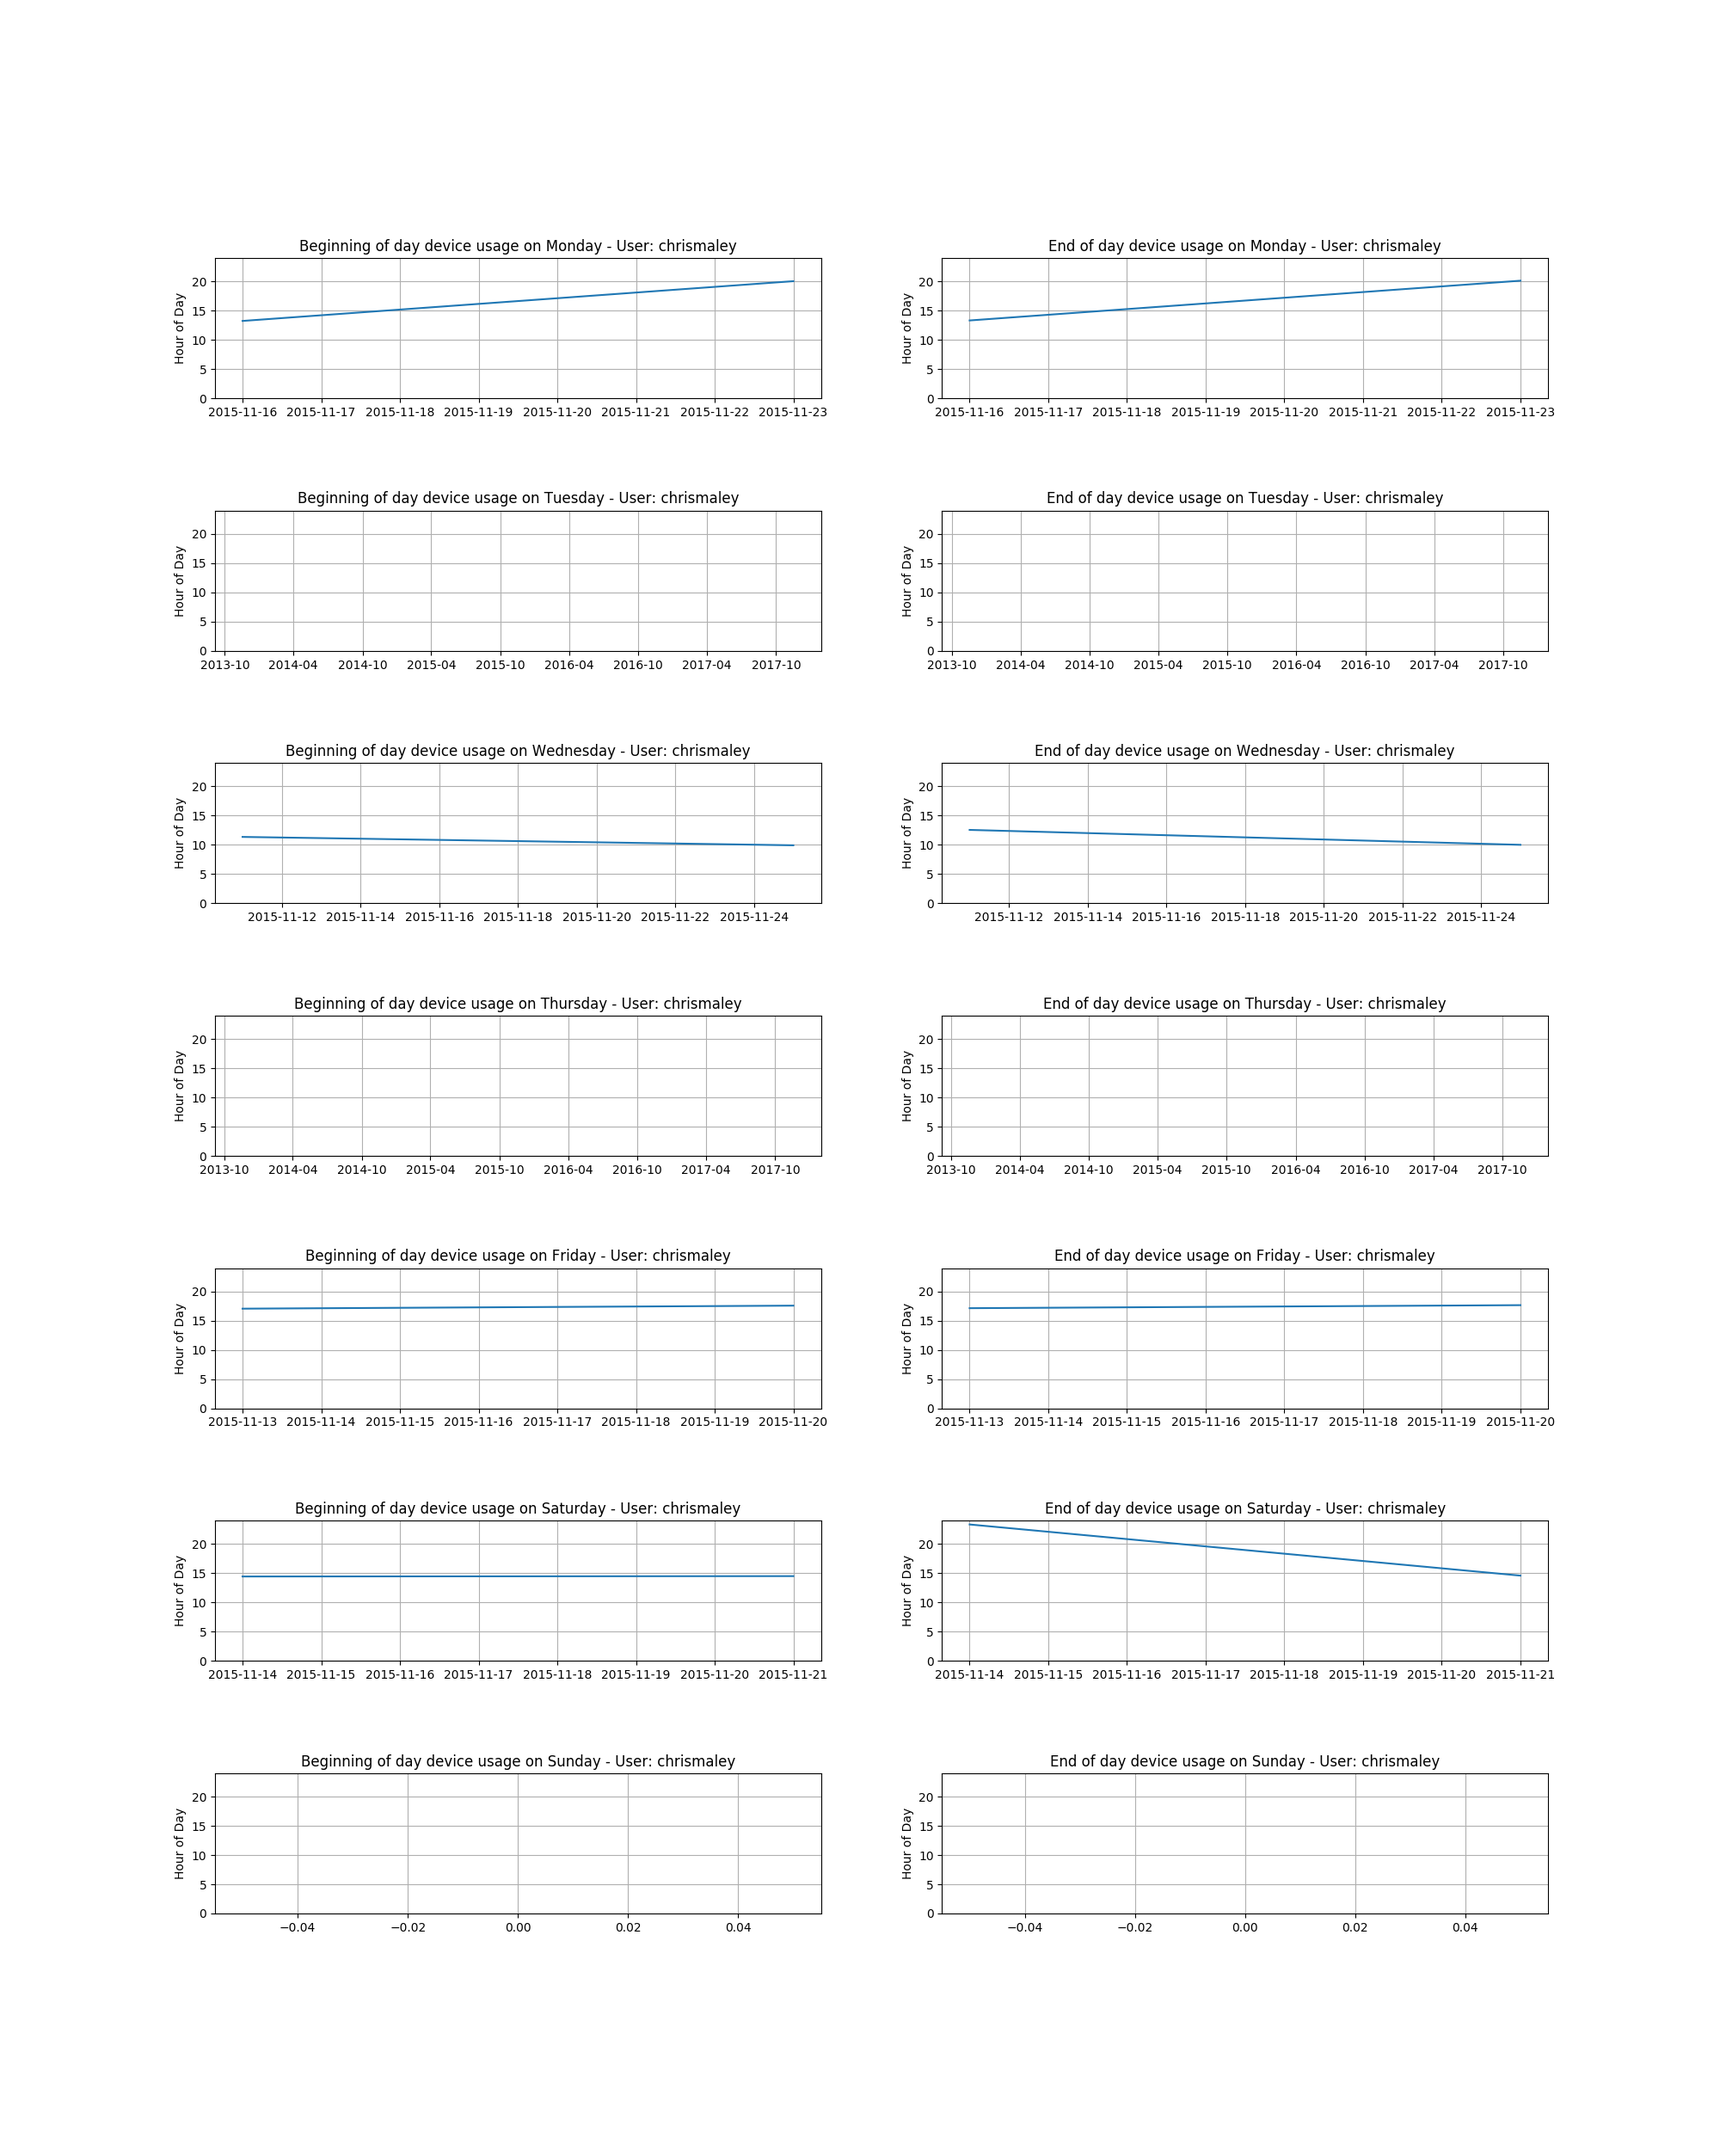
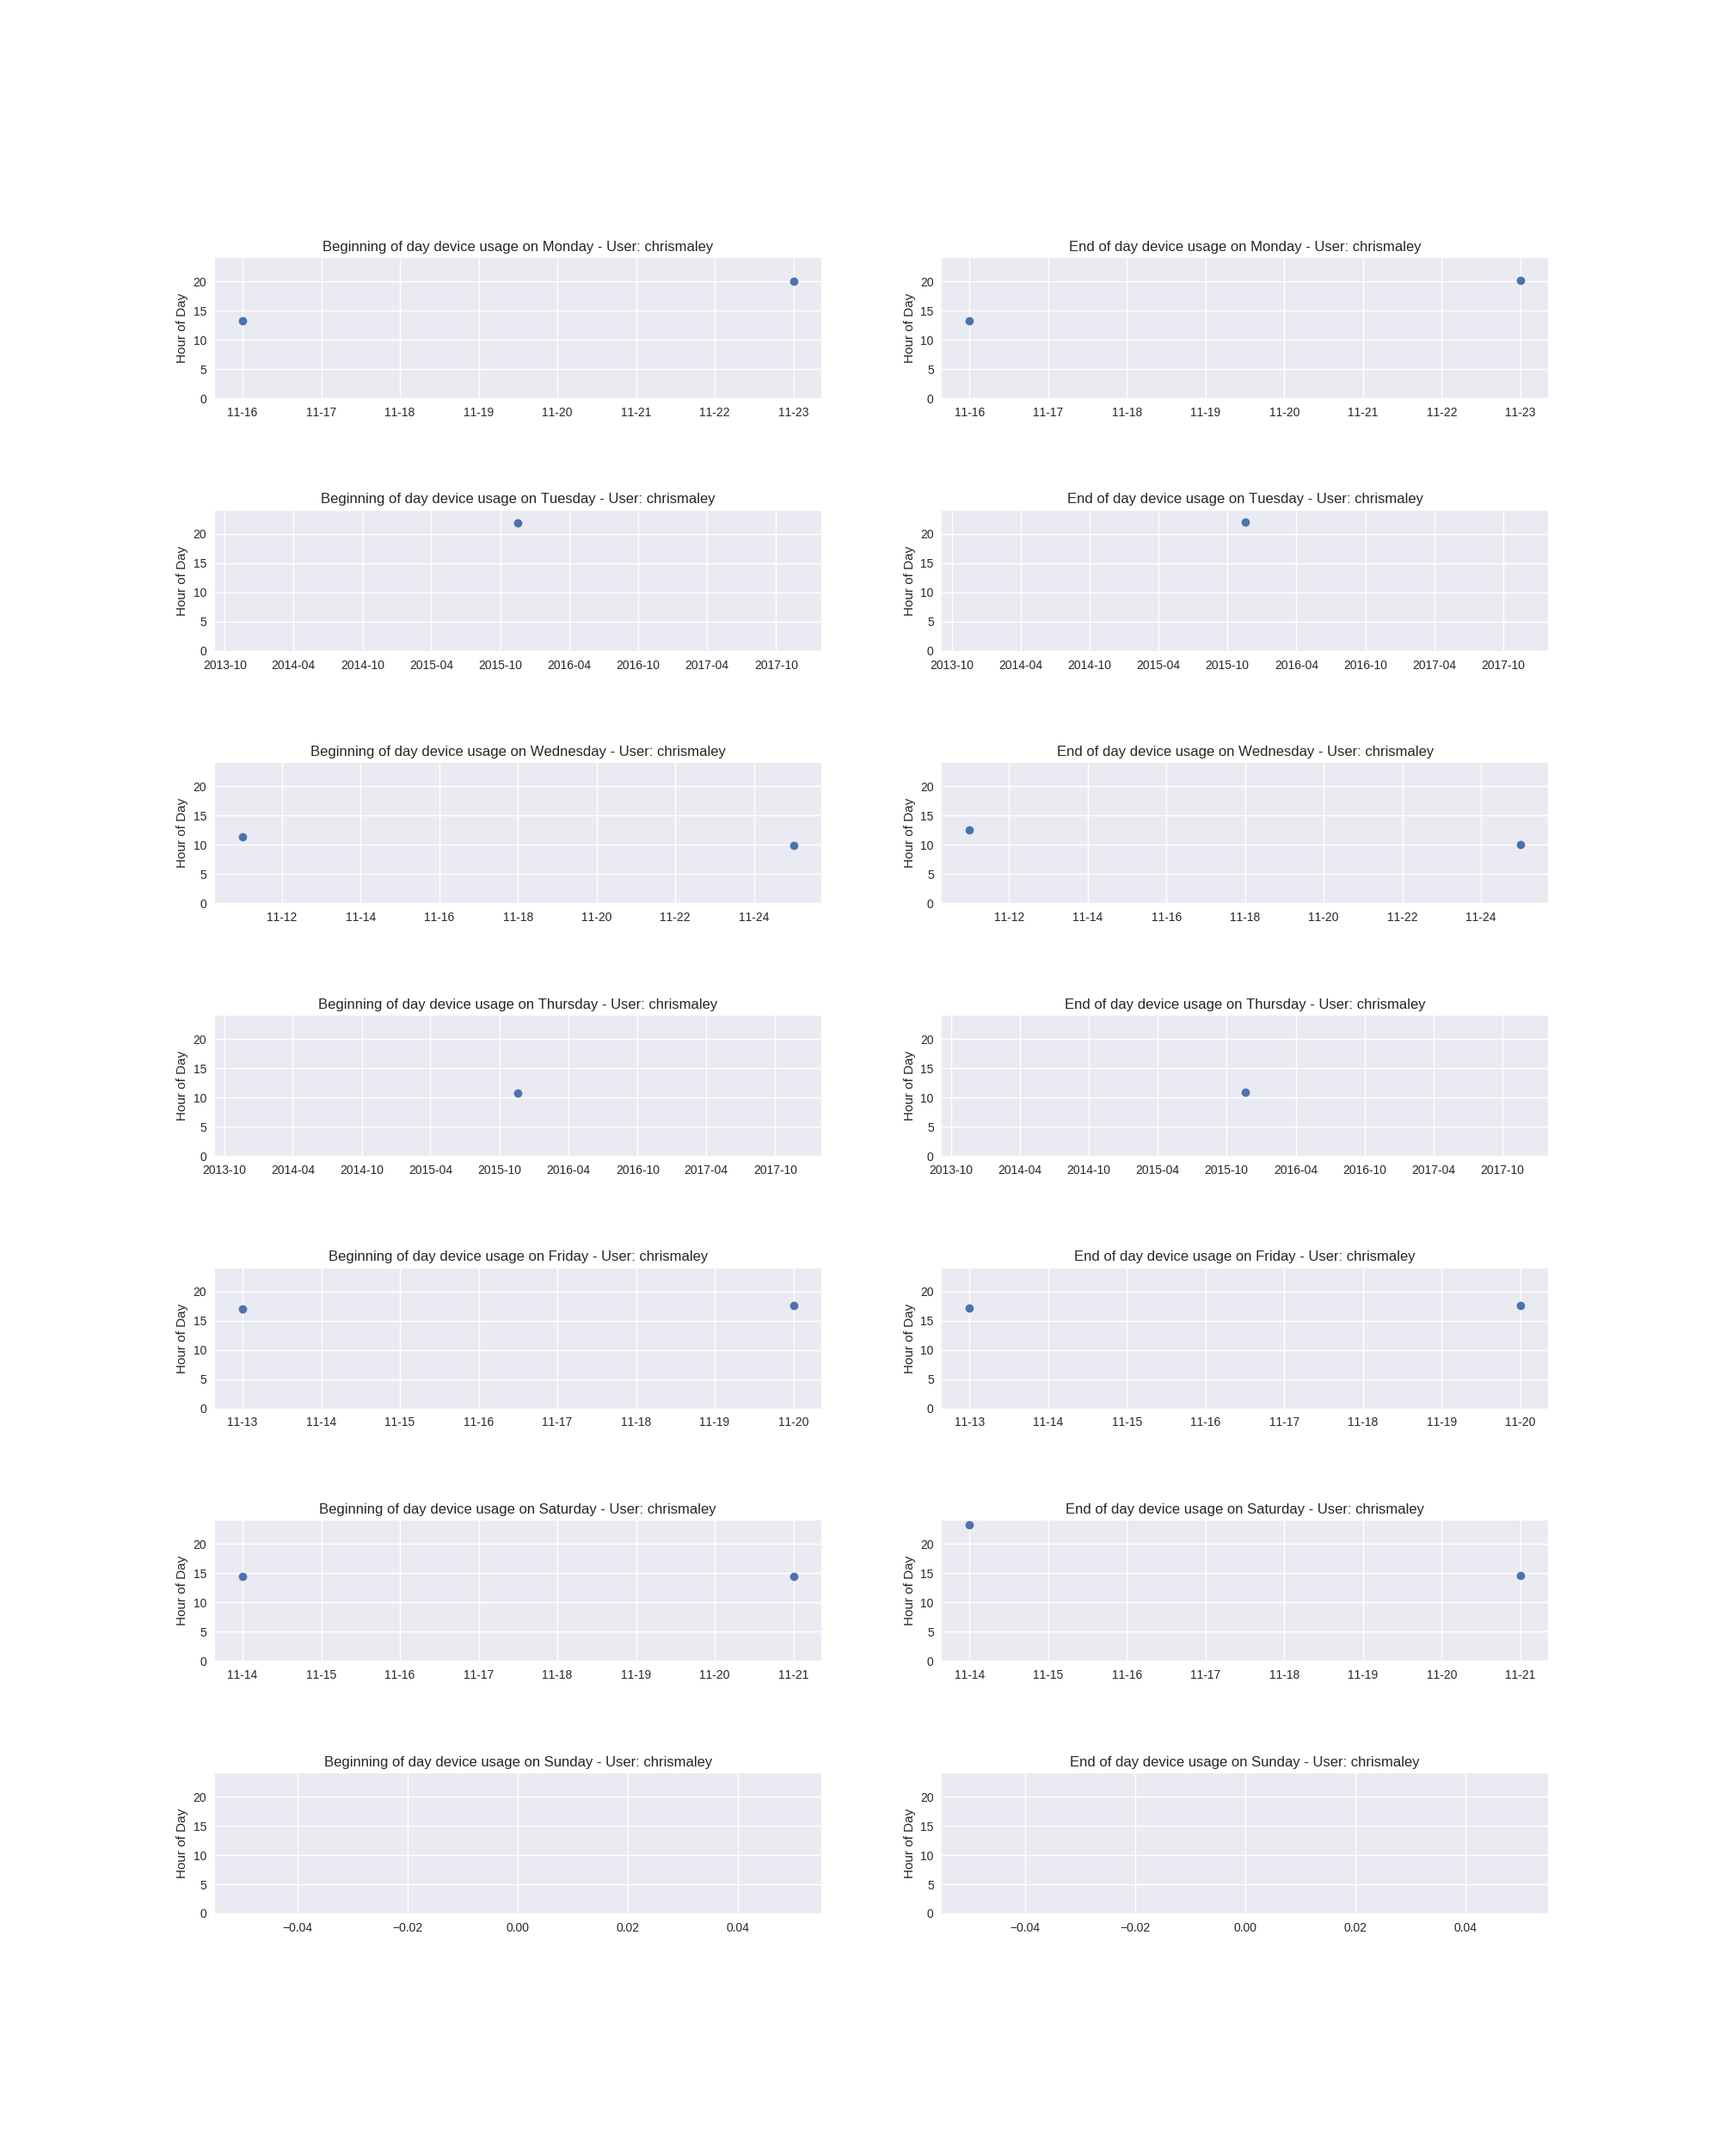
ploting done'

diff --git a/location_user_analysis.py b/location_user_analysis.py
@@ -126,8 +126,8 @@ vices.user_id =:user').bindparams(user = user.id)
                 #if info_beg['devid']:
                 #    if info_beg['devid'][0] == 4:
      
-            if user.username == 'sormain':
-                plot_info(info_week_beg, info_week_end, days_str, user)
+            #if user.username == 'sormain':
+            plot_info(info_week_beg, info_week_end, days_str, user)
 
 def analyze_per_day(info, key_beg_end, key_dev, key_loc, devices_platform, user,days_str):
 
@@ -203,14 +203,16 @@ def plot_info (info_week_beg, info_week_end, days_str, user):
     fig.savefig('figs/' + user.username + '-allweek.png')
     plt.close(fig)
 
+
 def create_subplot(ax, df_col, key_beg_end, weekday, user):
     x = df_col[weekday+'date']
     y = df_col[weekday+'time']
     sns.set_style('darkgrid')
     #ax.set_xticklabels(x, rotation=45, fontsize = 8, minor=False)
     #ax.set_xticklabels(xlabels, fontsize = 7)
-    hfmt = dates.DateFormatter('%m-%d')
-    ax.xaxis.set_major_formatter(hfmt)
+    if len(x) > 1:
+        hfmt = dates.DateFormatter('%m-%d')
+        ax.xaxis.set_major_formatter(hfmt)
     ax.set_title(key_beg_end + ' of day device usage on ' + weekday + ' - User: ' +  user.username)
     ax.set_ylim([0,24])
     ax.set_ylabel('Hour of Day')
